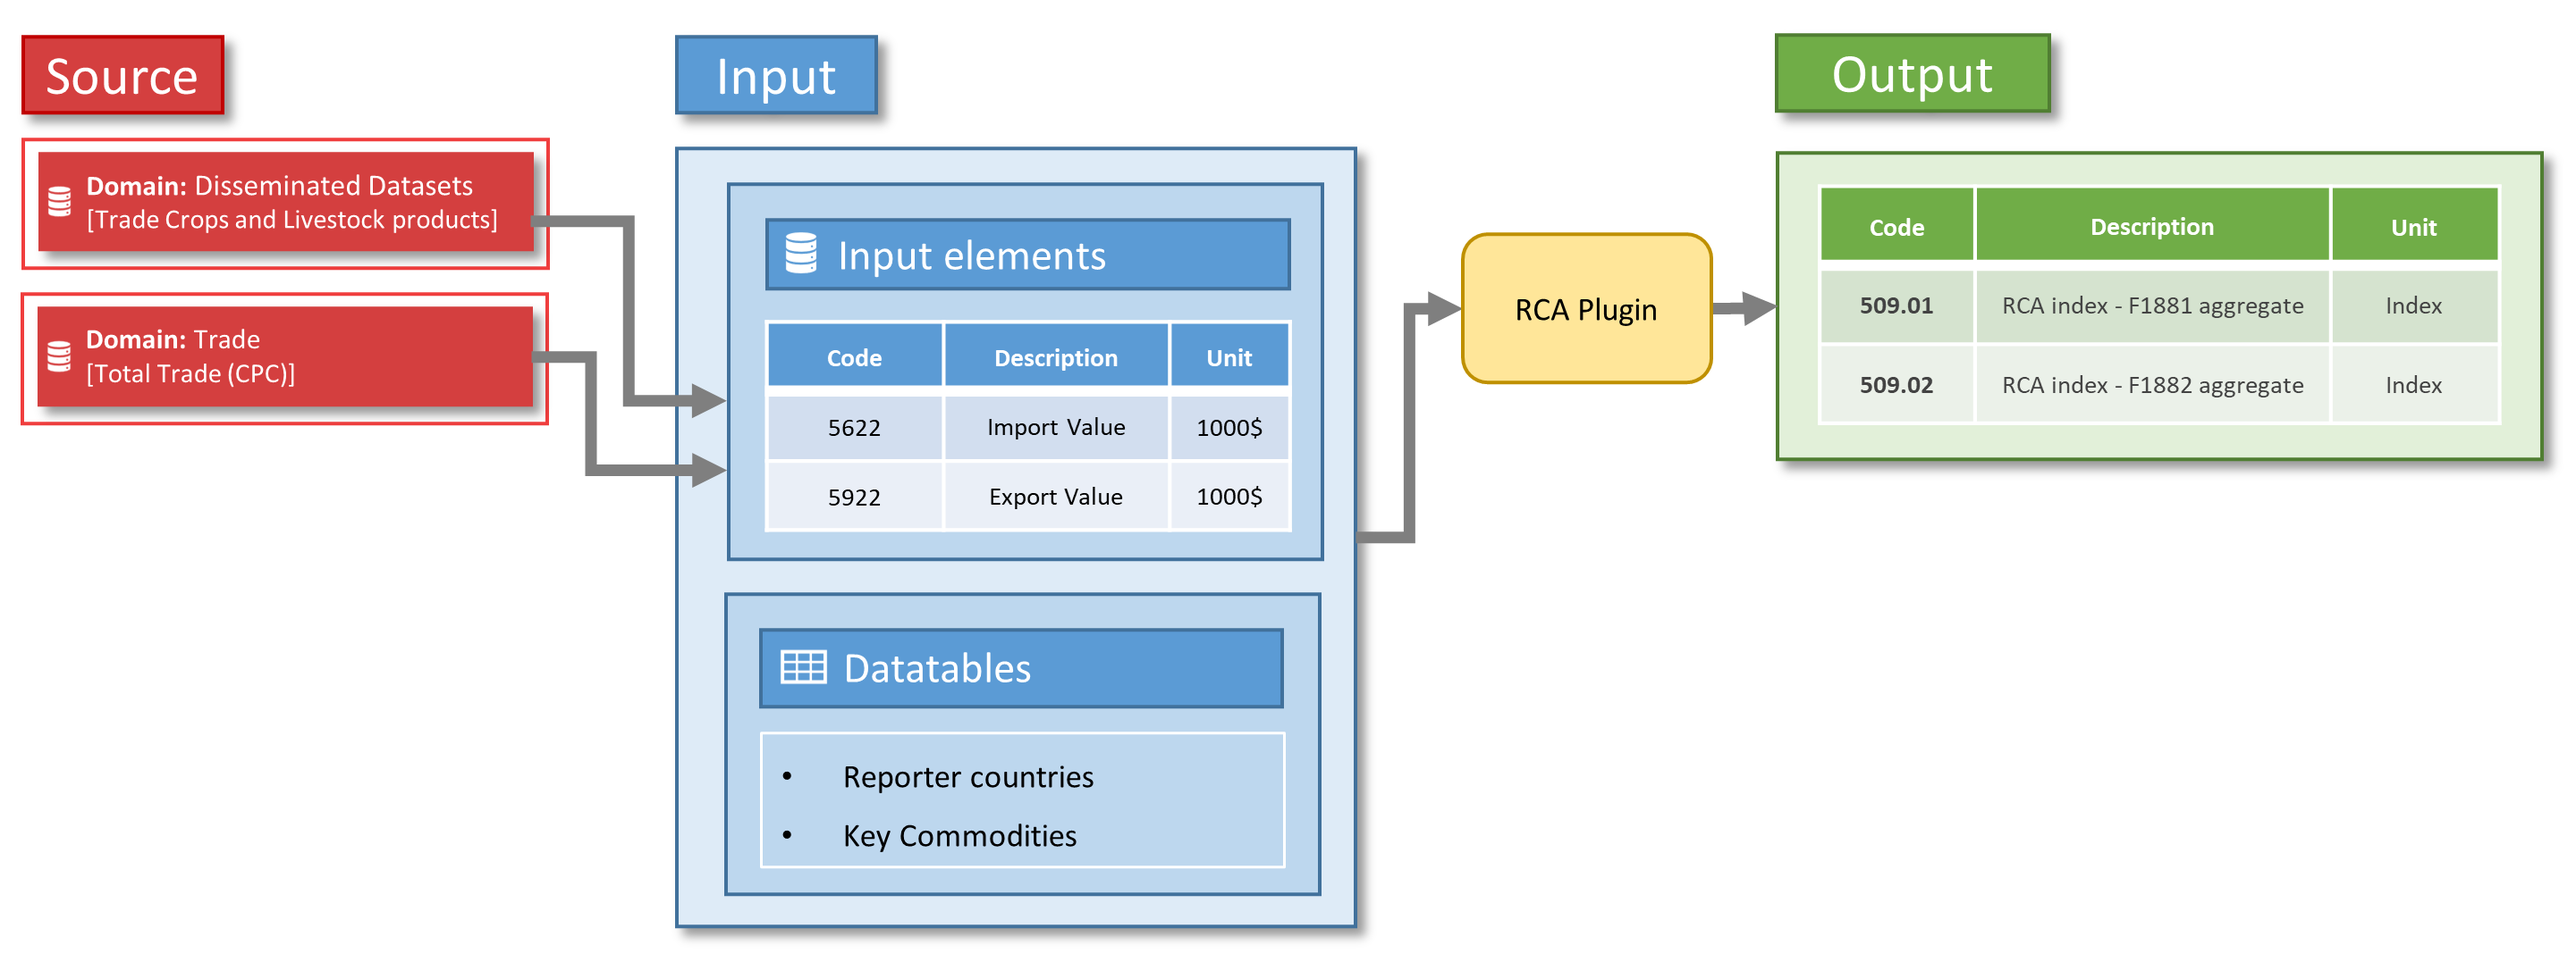
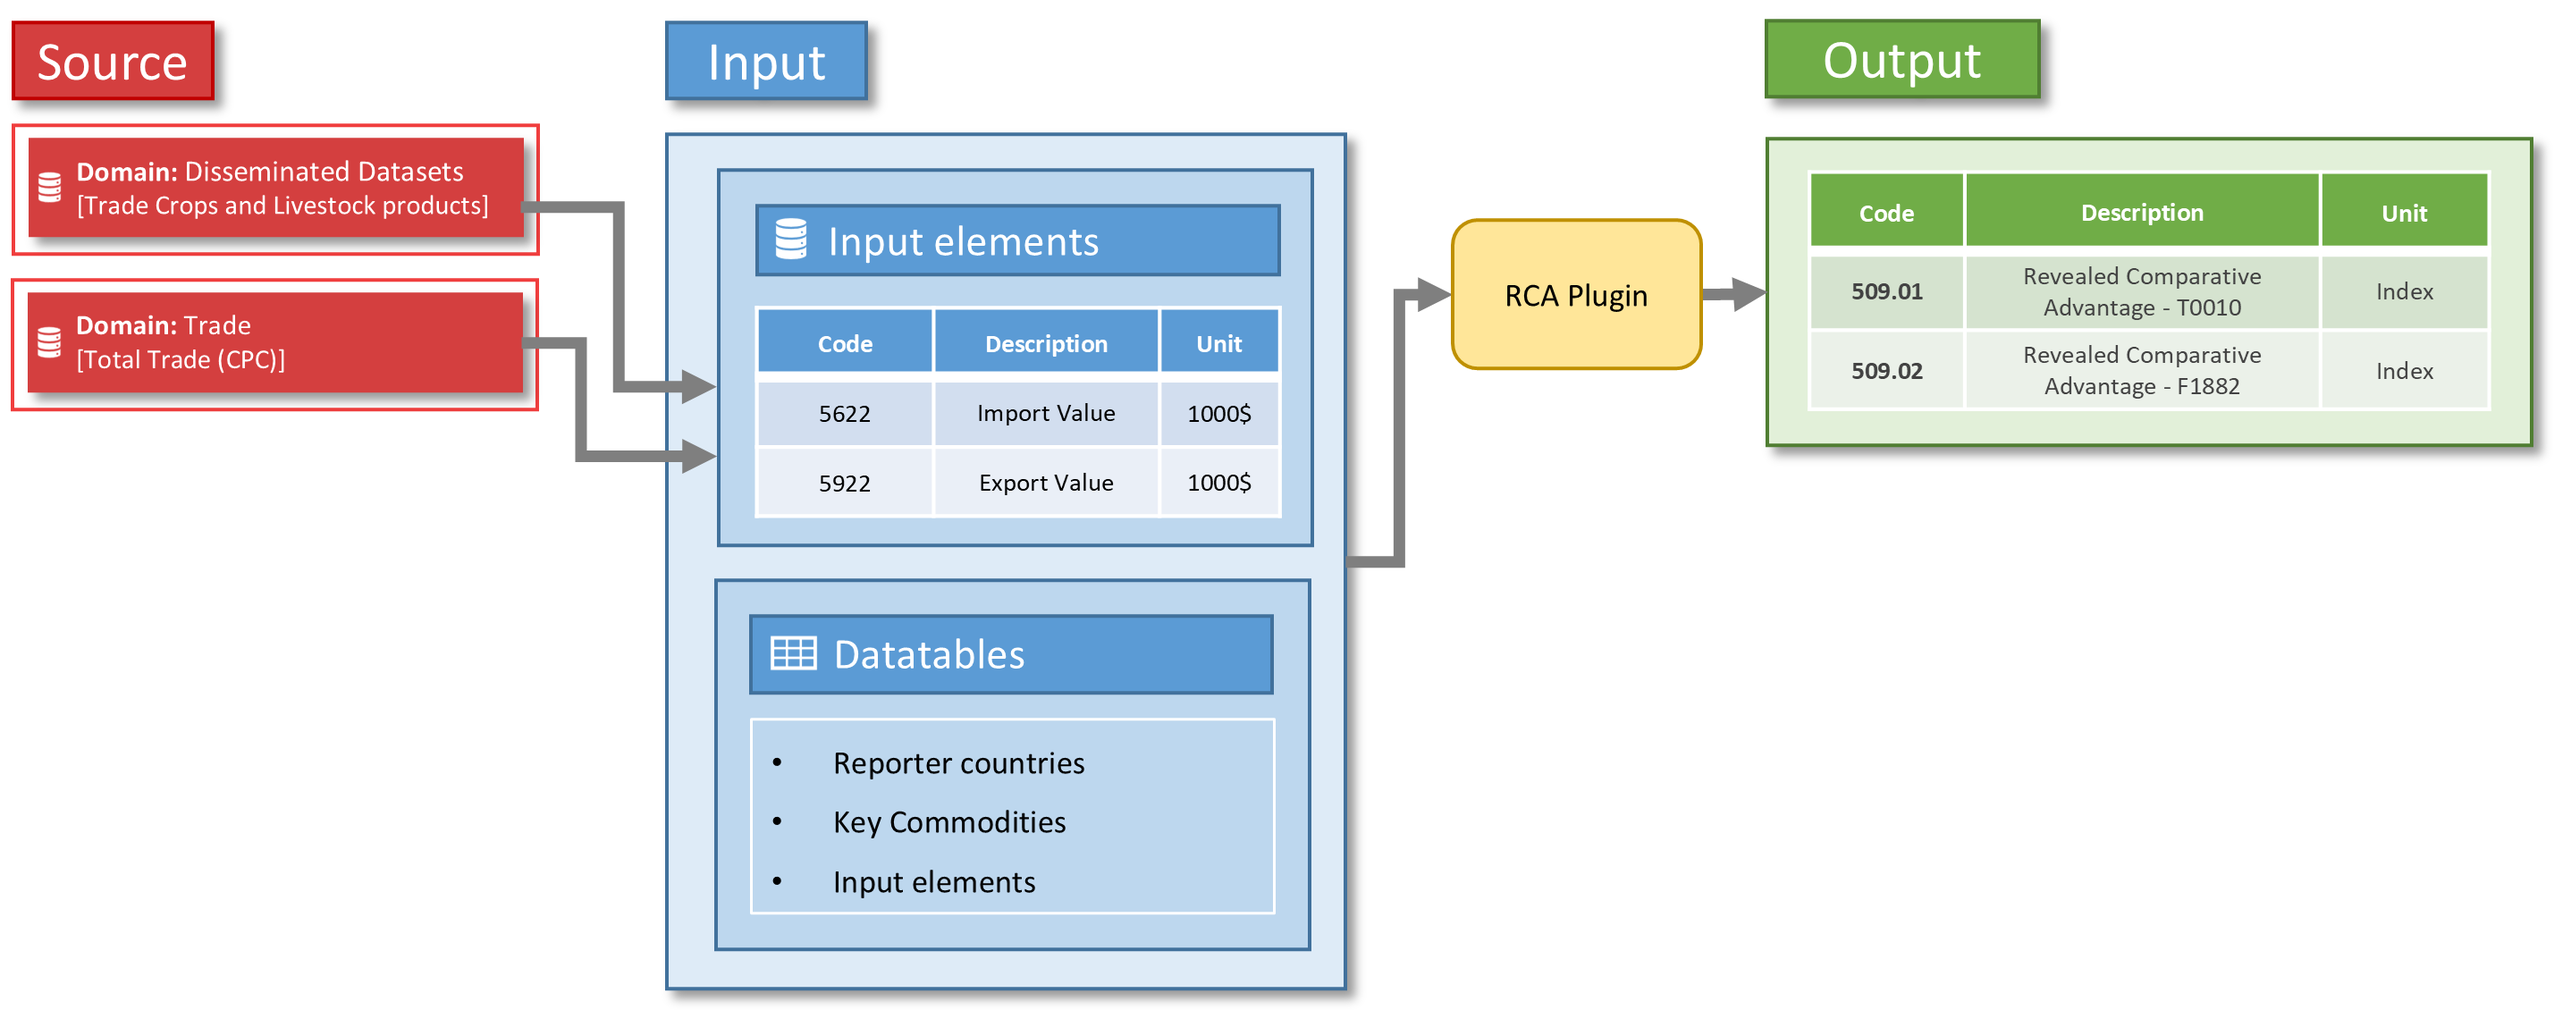
doc update completed

Changed region(s): [[0.0, 0.0, 0.9968, 1.0]]

diff --git a/docs/elements.html b/docs/elements.html
@@ -298,13 +298,13 @@
 <td align="right">Index</td>
 </tr>
 <tr class="even">
-<td align="center"><span class="math inline">\(509.01\)</span> Re</td>
-<td align="center">vealed Comparative Advantage - T0010</td>
+<td align="center"><span class="math inline">\(509.01\)</span></td>
+<td align="center">Revealed Comparative Advantage - T0010</td>
 <td align="right">Index</td>
 </tr>
 <tr class="odd">
-<td align="center"><span class="math inline">\(509.02\)</span> Re</td>
-<td align="center">vealed Comparative Advantage - F1882</td>
+<td align="center"><span class="math inline">\(509.02\)</span></td>
+<td align="center">Revealed Comparative Advantage - F1882</td>
 <td align="right">Index</td>
 </tr>
 </tbody>
